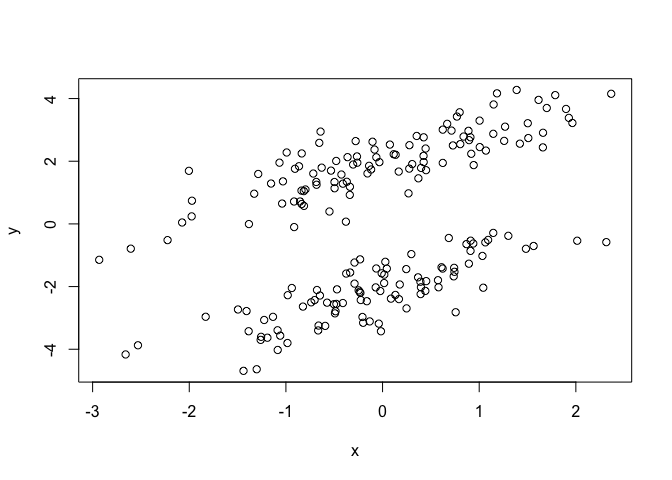
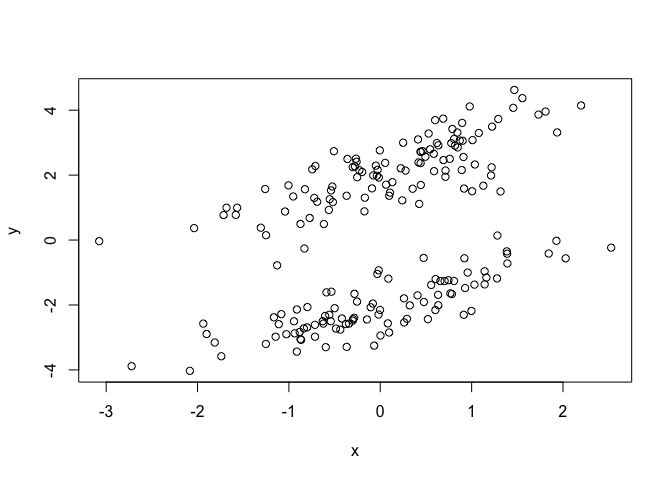
added manual

diff --git a/README.md b/README.md
@@ -22,6 +22,8 @@ This is a basic example which shows you how to solve a common problem:
 
 ``` r
 # generate data from a bivariate normal mixture model
+library(mvtnorm)
+library(parallel)
 K = 2 # number of components (lines)
 p_s = c(0.5, 0.5) # proportions of components
 mu_s = list(c(0,-2), c(0,2)) # mean vectors
@@ -46,59 +48,36 @@ plot(x, y)
 # supervised sample generalized R square
 gR2(x, y, z) # without inference
 #> $estimate
-#> [1] 0.6797322
+#> [1] 0.6389837
 gR2(x, y, z, inference=TRUE) # with inference
 #> $estimate
-#> [1] 0.6797322
+#> [1] 0.6389837
 #> 
 #> $conf.level
 #> [1] 0.95
 #> 
 #> $conf.int
-#> [1] 0.6115479 0.7479164
+#> [1] 0.5647868 0.7131806
 #> 
 #> $p.val
-#> [1] 2.559628e-85
+#> [1] 3.199748e-64
 
 # unsupervised sample generalized R square
-gR2(x, y, K=2) # with K specified, without inference
+gR2(x, y, K=2, mc.cores=2) # with K specified, without inference
 #> $estimate
-#> [1] 0.6797322
+#> [1] 0.6389837
 #> 
 #> $K
 #> [1] 2
 #> 
 #> $membership
-#>   [1] 2 1 2 1 2 1 1 2 1 2 2 1 2 2 1 2 1 2 1 2 2 1 2 2 1 1 2 1 1 2 2 2 1 1 2
-#>  [36] 2 1 2 1 2 1 1 2 2 1 1 1 1 2 2 1 2 1 2 1 2 2 2 2 2 1 2 2 1 1 1 1 2 1 2
-#>  [71] 2 1 1 1 2 2 1 2 1 2 2 1 2 1 2 1 1 1 2 1 1 2 1 1 1 1 1 2 1 1 2 1 1 1 2
-#> [106] 1 1 1 2 1 1 2 1 1 2 2 1 2 1 1 2 2 1 2 1 1 2 2 1 2 1 2 1 2 2 2 2 1 1 2
-#> [141] 1 2 1 2 1 2 2 1 2 1 1 1 2 2 1 1 1 1 1 2 1 1 2 2 1 1 1 1 1 2 1 2 2 1 1
-#> [176] 1 2 2 1 2 1 1 2 2 1 1 2 2 2 2 1 2 1 1 2 2 2 1 2 1
-gR2(x, y, K=2, inference=TRUE) # with K specified and inference
-#> $estimate
-#> [1] 0.6797322
-#> 
-#> $conf.level
-#> [1] 0.95
-#> 
-#> $conf.int
-#> [1] 0.6115479 0.7479164
-#> 
-#> $p.val
-#> [1] 2.559628e-85
-#> 
-#> $K
-#> [1] 2
-#> 
-#> $membership
-#>   [1] 2 1 2 1 2 1 1 2 1 2 2 1 2 2 1 2 1 2 1 2 2 1 2 2 1 1 2 1 1 2 2 2 1 1 2
-#>  [36] 2 1 2 1 2 1 1 2 2 1 1 1 1 2 2 1 2 1 2 1 2 2 2 2 2 1 2 2 1 1 1 1 2 1 2
-#>  [71] 2 1 1 1 2 2 1 2 1 2 2 1 2 1 2 1 1 1 2 1 1 2 1 1 1 1 1 2 1 1 2 1 1 1 2
-#> [106] 1 1 1 2 1 1 2 1 1 2 2 1 2 1 1 2 2 1 2 1 1 2 2 1 2 1 2 1 2 2 2 2 1 1 2
-#> [141] 1 2 1 2 1 2 2 1 2 1 1 1 2 2 1 1 1 1 1 2 1 1 2 2 1 1 1 1 1 2 1 2 2 1 1
-#> [176] 1 2 2 1 2 1 1 2 2 1 1 2 2 2 2 1 2 1 1 2 2 2 1 2 1
-gR2(x, y, inference=TRUE) # without K specified, with inference
+#>   [1] 2 1 2 2 1 1 2 1 2 2 1 2 1 1 2 2 1 1 2 2 2 2 1 2 2 2 2 1 1 1 2 1 2 1 1
+#>  [36] 1 1 2 1 1 2 1 1 2 2 2 2 1 1 1 2 2 1 2 2 2 1 2 1 2 2 1 2 1 2 1 2 1 2 1
+#>  [71] 2 1 1 1 2 1 2 1 2 1 2 2 1 1 2 2 1 2 1 2 2 1 2 1 1 2 1 2 2 2 2 2 2 2 1
+#> [106] 2 1 1 2 1 2 1 2 2 2 1 1 1 2 1 1 2 2 1 1 2 1 2 2 1 1 2 1 2 1 1 2 2 2 1
+#> [141] 2 2 2 2 2 2 2 1 1 2 2 1 1 1 1 1 1 1 2 2 2 2 1 2 1 2 1 1 1 1 1 1 1 2 2
+#> [176] 1 2 2 2 2 2 2 1 2 1 2 2 1 2 2 1 2 2 1 1 2 1 2 1 2
+gR2(x, y, inference=TRUE, mc.cores=2) # without K specified, with inference
 #> Candidate K values: 1, 2, 3, 4
 ```
 
@@ -106,24 +85,26 @@ gR2(x, y, inference=TRUE) # without K specified, with inference
 
     #> The K value chosen by AIC is 2
     #> $estimate
-    #> [1] 0.6797322
+    #> [1] 0.6389837
     #> 
     #> $conf.level
     #> [1] 0.95
     #> 
     #> $conf.int
-    #> [1] 0.6115479 0.7479164
+    #> [1] 0.5647868 0.7131806
     #> 
     #> $p.val
-    #> [1] 2.559628e-85
+    #> [1] 3.199748e-64
     #> 
     #> $K
     #> [1] 2
     #> 
     #> $membership
-    #>   [1] 1 2 1 2 1 2 2 1 2 1 1 2 1 1 2 1 2 1 2 1 1 2 1 1 2 2 1 2 2 1 1 1 2 2 1
-    #>  [36] 1 2 1 2 1 2 2 1 1 2 2 2 2 1 1 2 1 2 1 2 1 1 1 1 1 2 1 1 2 2 2 2 1 2 1
-    #>  [71] 1 2 2 2 1 1 2 1 2 1 1 2 1 2 1 2 2 2 1 2 2 1 2 2 2 2 2 1 2 2 1 2 2 2 1
-    #> [106] 2 2 2 1 2 2 1 2 2 1 1 2 1 2 2 1 1 2 1 2 2 1 1 2 1 2 1 2 1 1 1 1 2 2 1
-    #> [141] 2 1 2 1 2 1 1 2 1 2 2 2 1 1 2 2 2 2 2 1 2 2 1 1 2 2 2 2 2 1 2 1 1 2 2
-    #> [176] 2 1 1 2 1 2 2 1 1 2 2 1 1 1 1 2 1 2 2 1 1 1 2 1 2
+    #>   [1] 1 2 1 1 2 2 1 2 1 1 2 1 2 2 1 1 2 2 1 1 1 1 2 1 1 1 1 2 2 2 1 2 1 2 2
+    #>  [36] 2 2 1 2 2 1 2 2 1 1 1 1 2 2 2 1 1 2 1 1 1 2 1 2 1 1 2 1 2 1 2 1 2 1 2
+    #>  [71] 1 2 2 2 1 2 1 2 1 2 1 1 2 2 1 1 2 1 2 1 1 2 1 2 2 1 2 1 1 1 1 1 1 1 2
+    #> [106] 1 2 2 1 2 1 2 1 1 1 2 2 2 1 2 2 1 1 2 2 1 2 1 1 2 2 1 2 1 2 2 1 1 1 2
+    #> [141] 1 1 1 1 1 1 1 2 2 1 1 2 2 2 2 2 2 2 1 1 1 1 2 1 2 1 2 2 2 2 2 2 2 1 1
+    #> [176] 2 1 1 1 1 1 1 2 1 2 1 1 2 1 1 2 1 1 2 2 1 2 1 2 1
+
+Please refer to the package [manual](https://github.com/lijy03/gR2/blob/master/gR2.pdf) for a full list of arguments and detailed usage.
